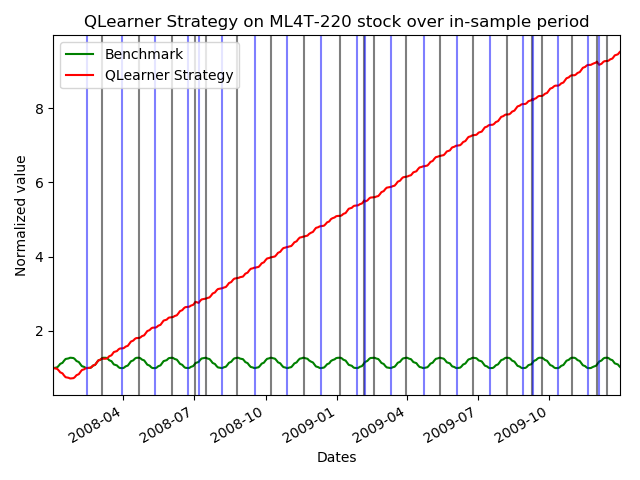
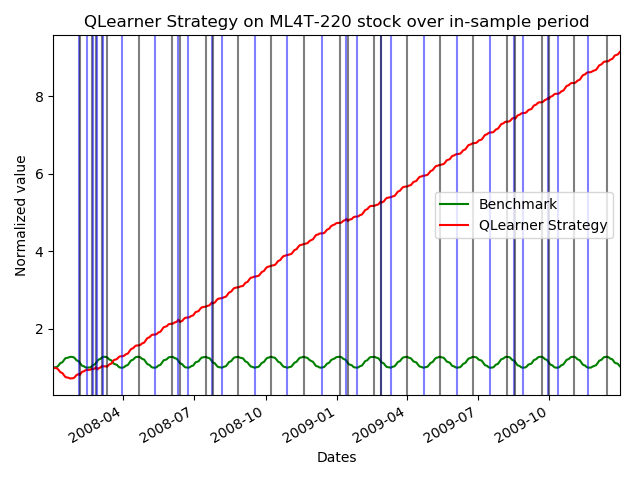
adjusted rolling window to 20 on non-stdev

diff --git a/indicators.py b/indicators.py
@@ -54,11 +54,11 @@ def get_daily_returns(prices):
 
 
 
-def get_simple_moving_average(prices, window=30):
+def get_simple_moving_average(prices, window=20):
     return prices.rolling(window=window, min_periods=window).mean()
 
 
-def get_simple_moving_average_ratio(prices, window=30):
+def get_simple_moving_average_ratio(prices, window=20):
     return prices / prices.rolling(window=window, min_periods=window).mean()
 
 
